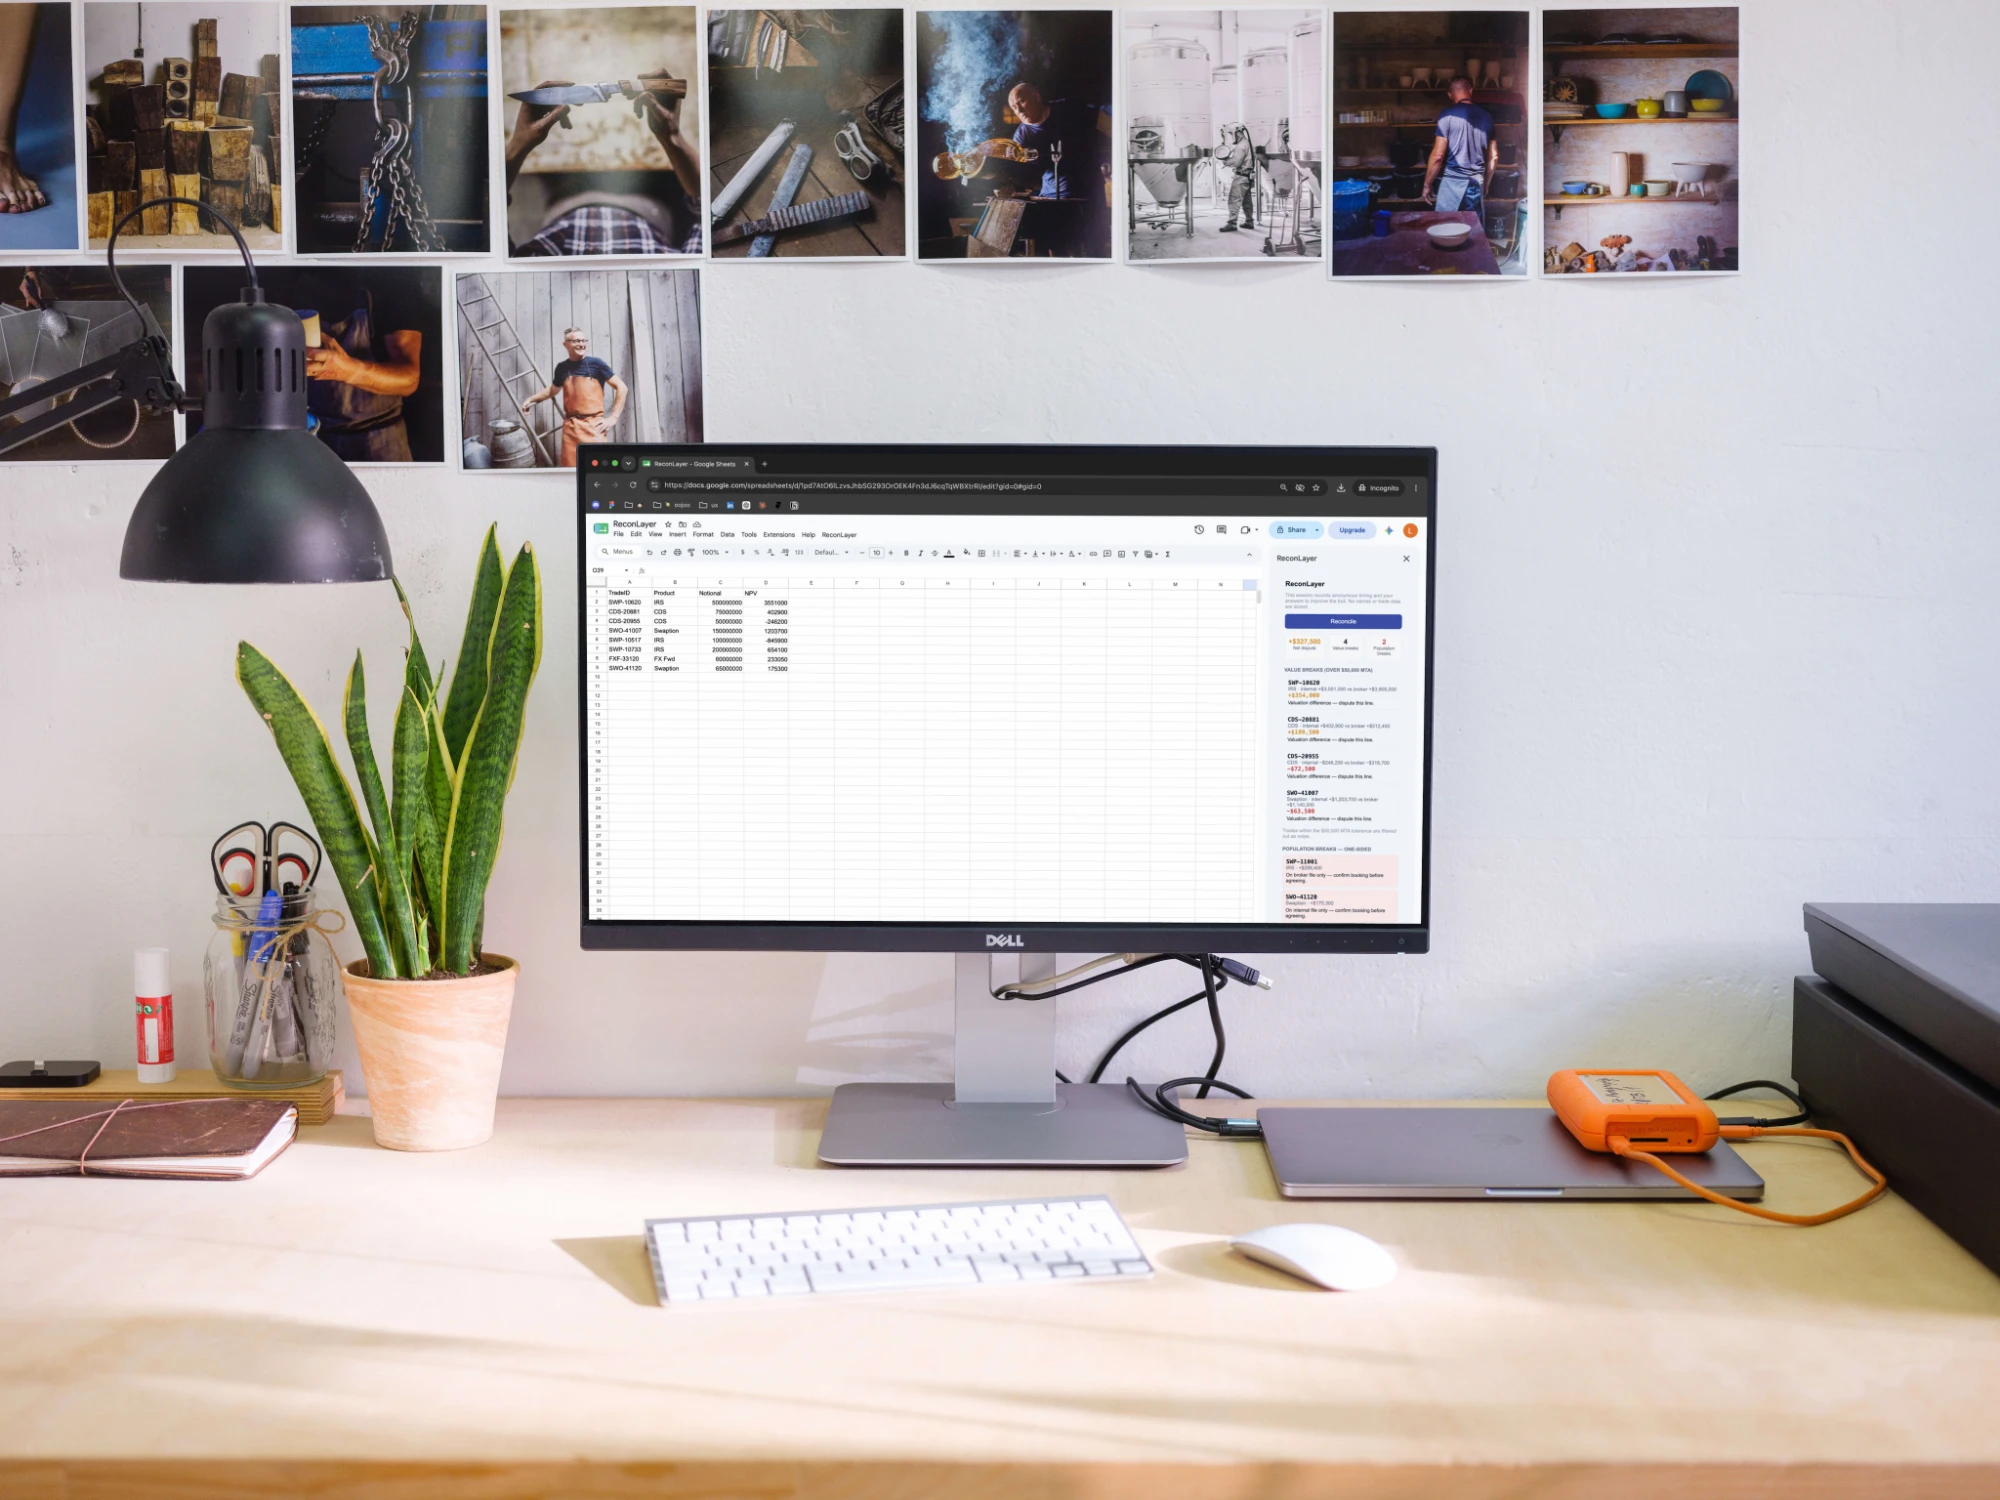
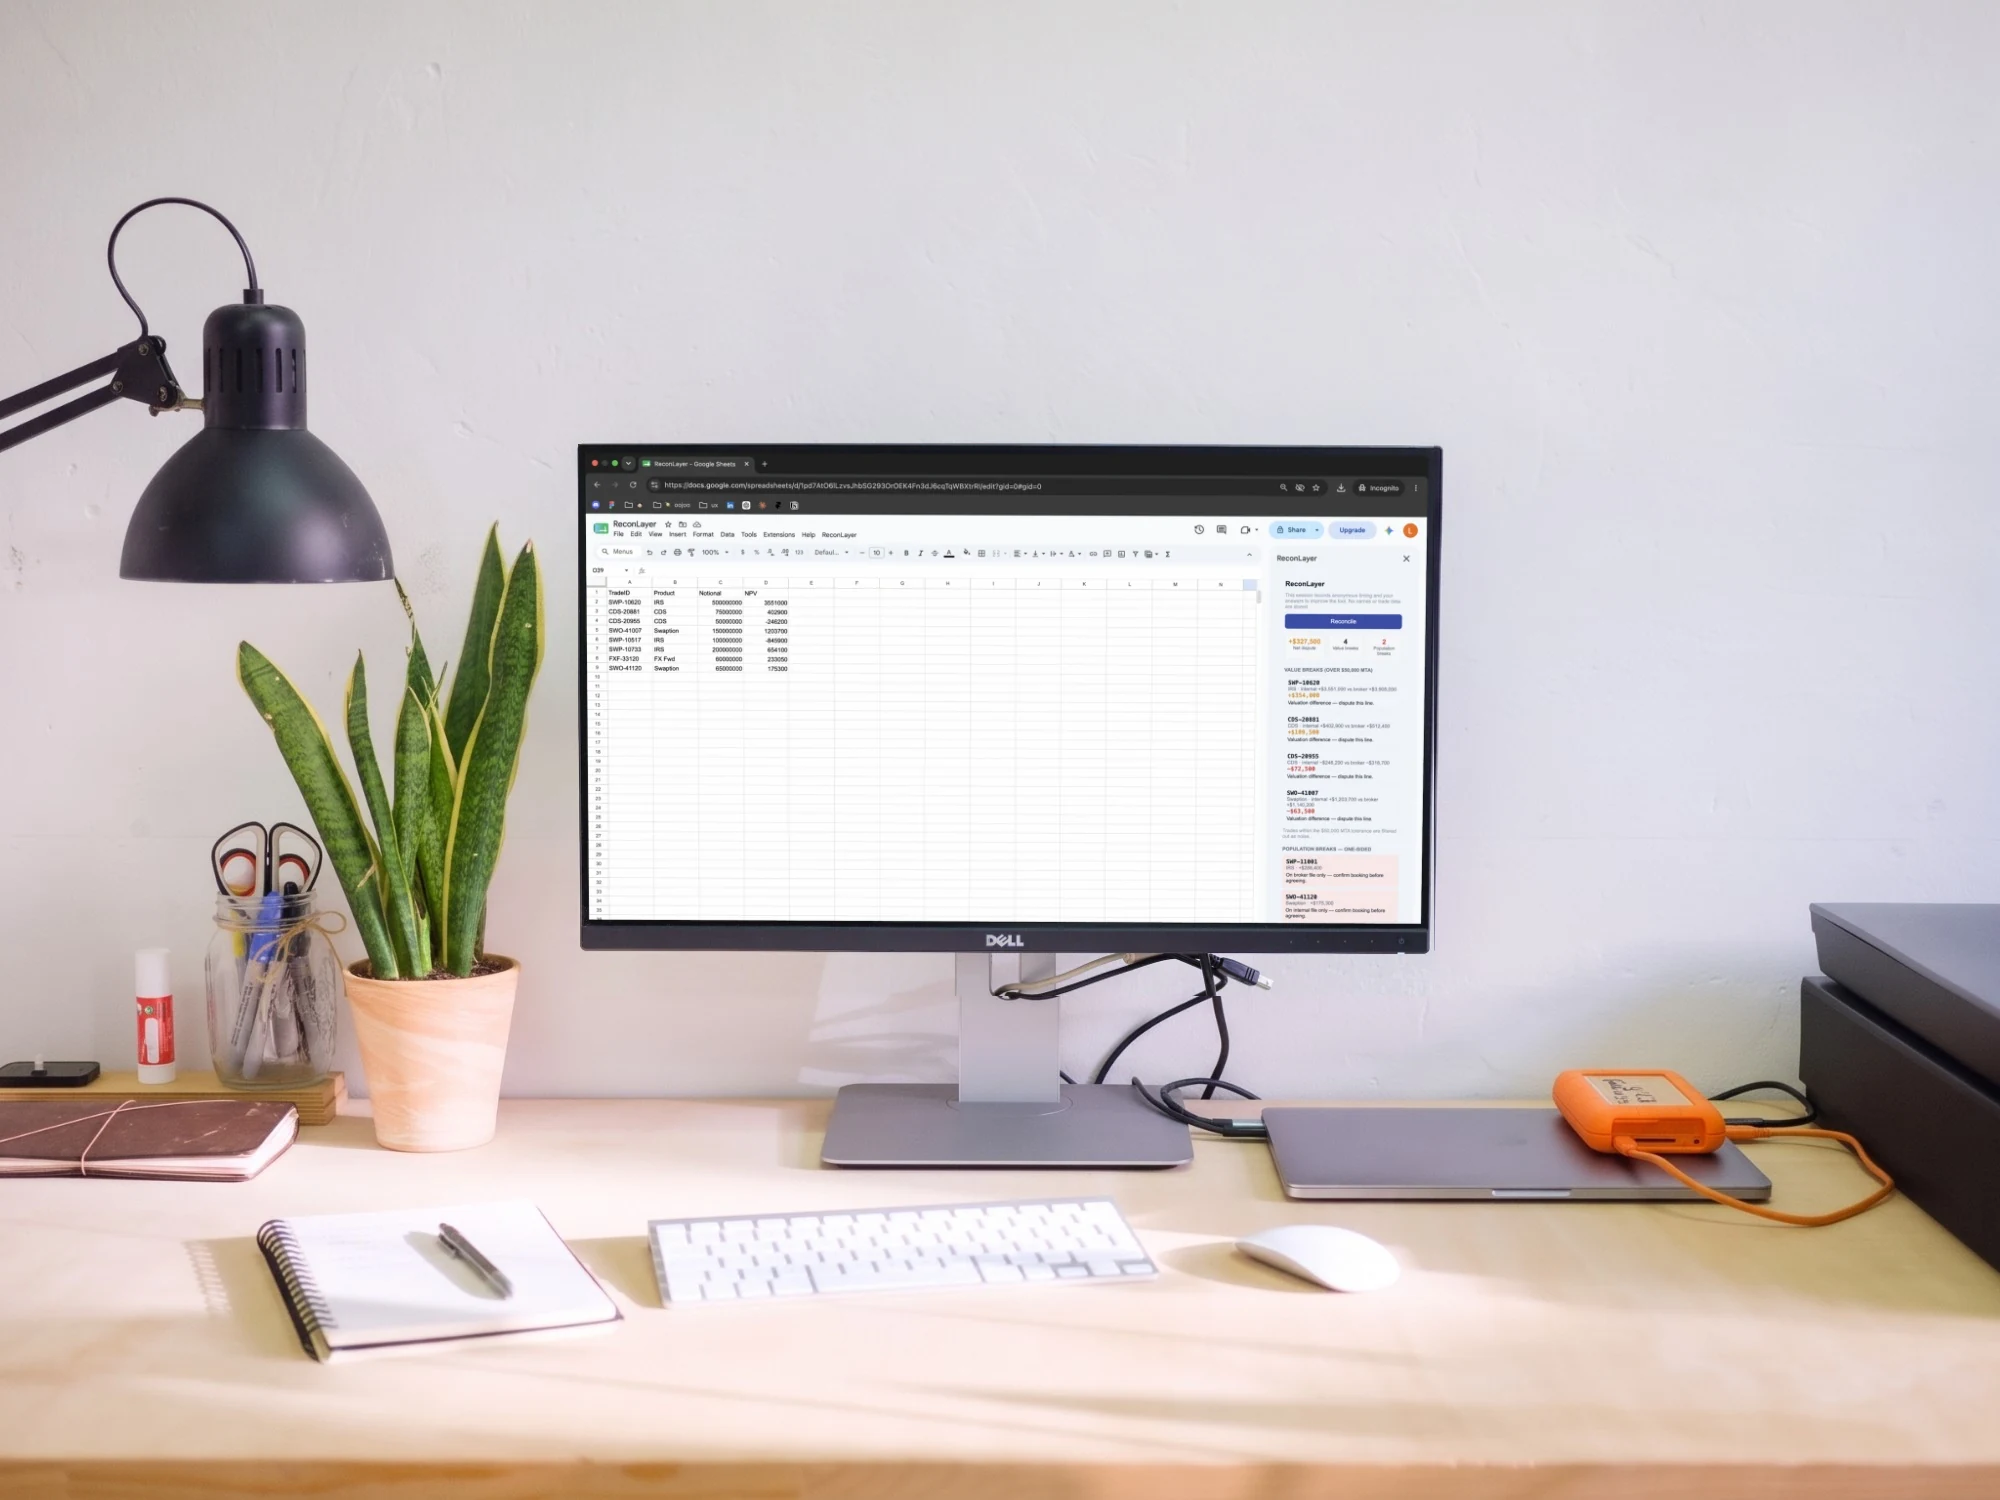
Openers: desk scene for ReconLayer, phone-at-desk scene for FXpress, both with the real screens composited
- reconlayer/opener.webp: the verified monitor face pasted onto the new desk scene (same base photo)
- fxpress/opener.webp: the real screen from the first mockup unwarped and warped onto the new phone
- FXpress hero is now the scene at 2:1; the earlier inline phone mockup in Proof is removed

Claude-Session: https://claude.ai/code/session_01BWS5PCRjFeAZF9aTGuRUn3

diff --git a/content/projects.js b/content/projects.js
@@ -23,9 +23,9 @@ export const projects = [
     tagline: 'Transparent rate context for international transfers',
     indexDesc: 'Transparent rate context for international transfers',
     hero: {
-      file: 'fxpress/hero', size: 'wide', mount: true,
-      alt: 'The live FXpress widget: a 500 USD to KRW conversion, the 30-day range, the recipient amount, Fexi’s one-sentence rate description, and Send Now and Save Target Rate buttons',
-      caption: 'The live widget as it runs today: USD to KRW, the 30-day range, and Fexi’s descriptive sentence.',
+      file: 'fxpress/opener', size: 'wide', crop: '2 / 1',
+      alt: 'A person at a desk holding a phone that shows the live FXpress widget: 500 USD to KRW, at the bottom of its 30-day range',
+      caption: 'The live widget on a phone: 500 USD to KRW, at the bottom of its 30-day range.',
     },
     card: { file: 'fxpress/card', mount: true },
     group: 'work',
@@ -101,7 +101,6 @@ export const projects = [
         heading: 'The live widget',
         blocks: [
           { type: 'p', text: 'FXpress as it runs today, with live reference rates for 18 currency pairs. Pick a currency to see where today’s rate sits, save a target rate, add a calendar reminder, and go on to Wise, Remitly, Xoom, Chase or a bank. FXpress itself does not move money.' },
-          { type: 'figure', file: 'fxpress/opener', crop: '3 / 2', alt: 'A hand holding a phone with the live FXpress widget on screen: 500 USD to KRW, the rate at the bottom of its 30-day range', caption: 'The live widget on a phone: 500 USD to KRW, at the bottom of its 30-day range.' },
           { type: 'figure', file: 'fxpress/02-live-widget', size: 'wide', mount: true, alt: 'Screen recording of the live FXpress widget: the amount changes, the currency switches and Fexi’s sentence updates', caption: 'The live widget: a change of currency, Fexi’s sentence updating, then the hand-off to the sender’s own provider.' },
           { type: 'p', text: 'The widget itself, live. Pick a currency.' },
           { type: 'embed', src: 'https://fxpress.netlify.app/', title: 'FXpress live widget', kind: 'phone', href: 'https://fxpress.netlify.app/' },
